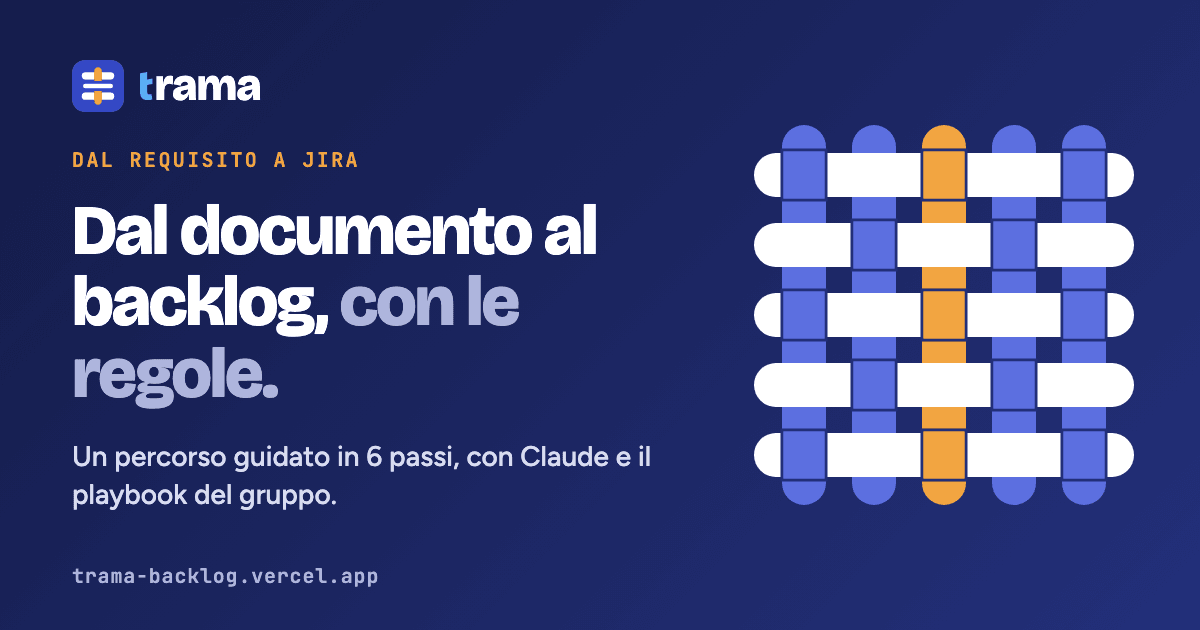
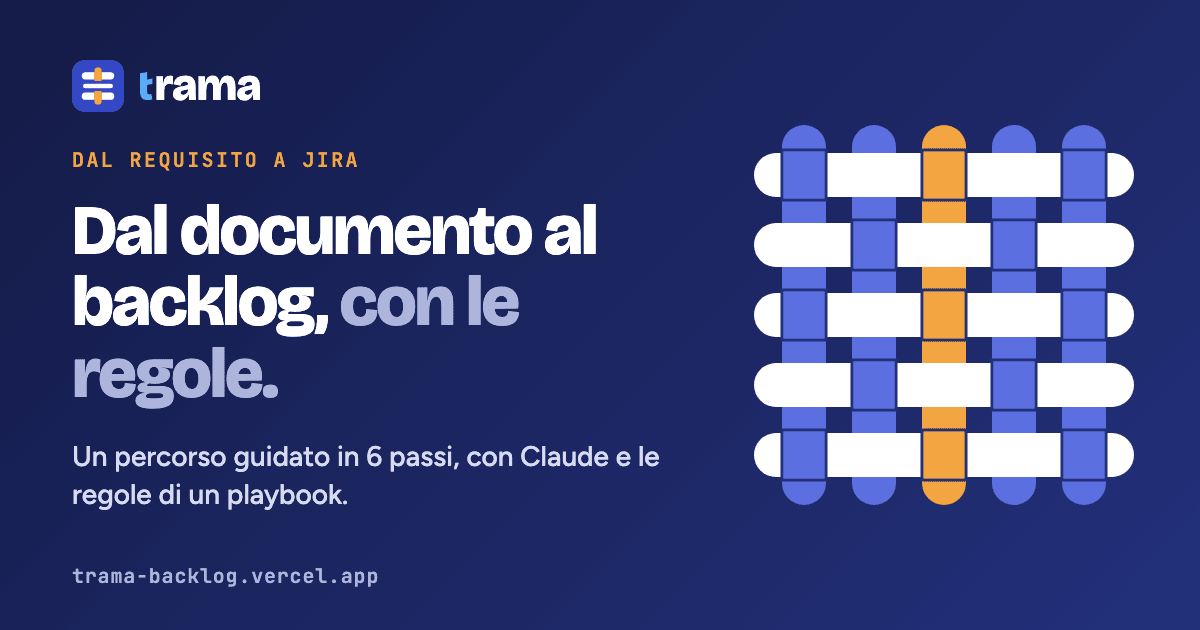
Testi pubblici: tolgo le diciture da uso interno
Trama viene mostrato anche fuori dal gruppo, dal profilo LinkedIn: homepage,
guida all'installazione e immagini di anteprima non dicono più «uso interno»,
«del gruppo» o «per i colleghi». Rigenerati metadati e immagini (ogVersion 3).

diff --git a/public/index.html b/public/index.html
@@ -4,7 +4,7 @@
 <meta charset="utf-8">
 <meta name="viewport" content="width=device-width,initial-scale=1,viewport-fit=cover">
 <title>Trama · Dal documento di requisiti al backlog Jira</title>
-<meta name="description" content="Trama trasforma il documento di requisiti in un backlog Jira strutturato, passo dopo passo, con l'assistente Tessa e le regole del playbook del gruppo.">
+<meta name="description" content="Trama trasforma il documento di requisiti in un backlog Jira strutturato, passo dopo passo, con l'assistente Tessa e le regole di un playbook.">
 <meta name="theme-color" content="#23307A">
 <meta name="apple-mobile-web-app-capable" content="yes">
 <meta name="apple-mobile-web-app-title" content="Trama">
@@ -298,19 +298,19 @@ footer a{color:var(--muted)}
 <meta property="og:locale" content="it_IT">
 <meta property="og:locale:alternate" content="en_GB">
 <meta property="og:title" content="Trama · Dal documento di requisiti al backlog Jira">
-<meta property="og:description" content="Trama trasforma il documento di requisiti in un backlog Jira strutturato, passo dopo passo, con l'assistente Tessa e le regole del playbook del gruppo.">
+<meta property="og:description" content="Trama trasforma il documento di requisiti in un backlog Jira strutturato, passo dopo passo, con l'assistente Tessa e le regole di un playbook.">
 <meta property="og:url" content="https://trama-backlog.vercel.app/">
-<meta property="og:image" content="https://trama-backlog.vercel.app/og/trama-og.png?v=2">
+<meta property="og:image" content="https://trama-backlog.vercel.app/og/trama-og.png?v=3">
 <meta property="og:image:type" content="image/png">
 <meta property="og:image:width" content="1200">
 <meta property="og:image:height" content="630">
 <meta property="og:image:alt" content="Trama: dal documento al backlog, con le regole.">
 <meta name="twitter:card" content="summary_large_image">
 <meta name="twitter:title" content="Trama · Dal documento di requisiti al backlog Jira">
-<meta name="twitter:description" content="Trama trasforma il documento di requisiti in un backlog Jira strutturato, passo dopo passo, con l'assistente Tessa e le regole del playbook del gruppo.">
-<meta name="twitter:image" content="https://trama-backlog.vercel.app/og/trama-og.png?v=2">
+<meta name="twitter:description" content="Trama trasforma il documento di requisiti in un backlog Jira strutturato, passo dopo passo, con l'assistente Tessa e le regole di un playbook.">
+<meta name="twitter:image" content="https://trama-backlog.vercel.app/og/trama-og.png?v=3">
 <meta name="twitter:image:alt" content="Trama: dal documento al backlog, con le regole.">
-<script type="application/ld+json">{"@context":"https://schema.org","@graph":[{"@type":"WebSite","@id":"https://trama-backlog.vercel.app/#site","url":"https://trama-backlog.vercel.app/","name":"Trama","inLanguage":"it"},{"@type":"SoftwareApplication","@id":"https://trama-backlog.vercel.app/#app","name":"Trama","url":"https://trama-backlog.vercel.app/","description":"Trama trasforma il documento di requisiti in un backlog Jira strutturato, passo dopo passo, con l'assistente Tessa e le regole del playbook del gruppo.","applicationCategory":"BusinessApplication","operatingSystem":"Web","inLanguage":"it","image":"https://trama-backlog.vercel.app/og/trama-og.png"}]}</script>
+<script type="application/ld+json">{"@context":"https://schema.org","@graph":[{"@type":"WebSite","@id":"https://trama-backlog.vercel.app/#site","url":"https://trama-backlog.vercel.app/","name":"Trama","inLanguage":"it"},{"@type":"SoftwareApplication","@id":"https://trama-backlog.vercel.app/#app","name":"Trama","url":"https://trama-backlog.vercel.app/","description":"Trama trasforma il documento di requisiti in un backlog Jira strutturato, passo dopo passo, con l'assistente Tessa e le regole di un playbook.","applicationCategory":"BusinessApplication","operatingSystem":"Web","inLanguage":"it","image":"https://trama-backlog.vercel.app/og/trama-og.png"}]}</script>
 <!-- seo:end -->
 </head>
 <body>
@@ -343,7 +343,7 @@ footer a{color:var(--muted)}
 
   <header class="hero">
     <div>
-      <div class="eyebrow">Product Owner + AI · uso interno</div>
+      <div class="eyebrow">Product Owner + AI</div>
       <h1 class="h-display" style="margin-top:16px">Dal documento al backlog, <span>con le regole.</span></h1>
       <p class="lede">Carichi i requisiti. Trama li scompone in Project, Fasi, epiche e storie con i metadati giusti, e li porta in Jira solo dopo la tua conferma.</p>
       <div class="cta">
@@ -516,7 +516,7 @@ footer a{color:var(--muted)}
     <div><p>Accedi con Atlassian, crea il progetto e segui i passi. Il primo backlog può essere in Jira il giorno stesso.</p><div class="cta" style="margin-top:22px"><a class="btn primary" id="ctaBand" href="/api/auth/login">Accedi con Atlassian</a><a class="btn" href="/brand">Linee guida del marchio</a></div></div>
   </div>
 </section>
-<div class="wrap"><footer><a class="brand" href="/" style="font-size:18px"><svg viewBox="0 0 32 32" aria-hidden="true" style="width:22px;height:22px"><rect width="32" height="32" rx="8" fill="#23307A"/><rect x="6" y="7.5" width="20" height="4.5" rx="2.25" fill="#fff"/><rect x="6" y="20" width="20" height="4.5" rx="2.25" fill="#fff"/><rect x="13.75" y="4.5" width="4.5" height="23" rx="2.25" fill="#F2A541"/><rect x="6" y="13.75" width="20" height="4.5" rx="2.25" fill="#fff" stroke="#23307A" stroke-width="1.6"/></svg><span class="wm" aria-hidden="true" data-no-i18n><svg class="wm-t" viewBox="0 0 21 47" aria-hidden="true" focusable="false"><use href="/icons.svg#tx-t" width="21" height="47"/></svg>rama</span><span class="sr-only">Trama</span></a><span>Strumento interno del gruppo · Funziona con Jira Cloud e Claude Code</span><span><a href="/installazione">Installazione</a> · <a href="/architettura">Architettura</a> · <a href="/privacy">Privacy</a> · <a href="/brand">Marchio e linee guida</a></span></footer></div>
+<div class="wrap"><footer><a class="brand" href="/" style="font-size:18px"><svg viewBox="0 0 32 32" aria-hidden="true" style="width:22px;height:22px"><rect width="32" height="32" rx="8" fill="#23307A"/><rect x="6" y="7.5" width="20" height="4.5" rx="2.25" fill="#fff"/><rect x="6" y="20" width="20" height="4.5" rx="2.25" fill="#fff"/><rect x="13.75" y="4.5" width="4.5" height="23" rx="2.25" fill="#F2A541"/><rect x="6" y="13.75" width="20" height="4.5" rx="2.25" fill="#fff" stroke="#23307A" stroke-width="1.6"/></svg><span class="wm" aria-hidden="true" data-no-i18n><svg class="wm-t" viewBox="0 0 21 47" aria-hidden="true" focusable="false"><use href="/icons.svg#tx-t" width="21" height="47"/></svg>rama</span><span class="sr-only">Trama</span></a><span>Funziona con Jira Cloud e Claude Code</span><span><a href="/installazione">Installazione</a> · <a href="/architettura">Architettura</a> · <a href="/privacy">Privacy</a> · <a href="/brand">Marchio e linee guida</a></span></footer></div>
 
 <script src="/home.js"></script>
 </body>

diff --git a/public/installazione.html b/public/installazione.html
@@ -3,7 +3,7 @@
 <head>
 <meta charset="utf-8">
 <meta name="viewport" content="width=device-width,initial-scale=1,viewport-fit=cover">
-<title>Trama · Installazione per i colleghi</title>
+<title>Trama · Installazione</title>
 <meta name="description" content="Come collegare Claude Code a Trama sul tuo computer in circa 15 minuti: accesso, Node.js, Claude Code, ponte e controlli.">
 <meta name="theme-color" content="#23307A">
 <link rel="preload" href="/fonts/figtree-latin.woff2" as="font" type="font/woff2" crossorigin>
@@ -50,26 +50,26 @@ tr:last-child td{border-bottom:0}
 <meta property="og:type" content="website">
 <meta property="og:site_name" content="Trama">
 <meta property="og:locale" content="it_IT">
-<meta property="og:title" content="Trama · Installazione per i colleghi">
+<meta property="og:title" content="Trama · Installazione">
 <meta property="og:description" content="Come collegare Claude Code a Trama sul tuo computer in circa 15 minuti: accesso, Node.js, Claude Code, ponte e controlli.">
 <meta property="og:url" content="https://trama-backlog.vercel.app/installazione">
-<meta property="og:image" content="https://trama-backlog.vercel.app/og/trama-og-install.png?v=2">
+<meta property="og:image" content="https://trama-backlog.vercel.app/og/trama-og-install.png?v=3">
 <meta property="og:image:type" content="image/png">
 <meta property="og:image:width" content="1200">
 <meta property="og:image:height" content="630">
-<meta property="og:image:alt" content="Collega Claude a Trama sul tuo computer: la guida per i colleghi.">
+<meta property="og:image:alt" content="Collega Claude a Trama sul tuo computer: la guida all'installazione.">
 <meta name="twitter:card" content="summary_large_image">
-<meta name="twitter:title" content="Trama · Installazione per i colleghi">
+<meta name="twitter:title" content="Trama · Installazione">
 <meta name="twitter:description" content="Come collegare Claude Code a Trama sul tuo computer in circa 15 minuti: accesso, Node.js, Claude Code, ponte e controlli.">
-<meta name="twitter:image" content="https://trama-backlog.vercel.app/og/trama-og-install.png?v=2">
-<meta name="twitter:image:alt" content="Collega Claude a Trama sul tuo computer: la guida per i colleghi.">
+<meta name="twitter:image" content="https://trama-backlog.vercel.app/og/trama-og-install.png?v=3">
+<meta name="twitter:image:alt" content="Collega Claude a Trama sul tuo computer: la guida all'installazione.">
 <!-- seo:end -->
 </head>
 <body>
 <div class="wrap">
   <div class="top"><a class="brand" href="/"><svg viewBox="0 0 32 32" aria-hidden="true"><rect width="32" height="32" rx="8" fill="#23307A"/><rect x="6" y="7.5" width="20" height="4.5" rx="2.25" fill="#fff"/><rect x="6" y="20" width="20" height="4.5" rx="2.25" fill="#fff"/><rect x="13.75" y="4.5" width="4.5" height="23" rx="2.25" fill="#F2A541"/><rect x="6" y="13.75" width="20" height="4.5" rx="2.25" fill="#fff" stroke="#23307A" stroke-width="1.6"/></svg><span class="wm" aria-hidden="true"><svg class="wm-t" viewBox="0 0 21 47" aria-hidden="true" focusable="false"><use href="/icons.svg#tx-t" width="21" height="47"/></svg>rama</span><span class="sr-only">Trama</span></a><a class="back" href="/studio">Apri Trama →</a></div>
   <main>
-    <div class="eyebrow">Guida per i colleghi · 15 minuti</div>
+    <div class="eyebrow">Guida all'installazione · 15 minuti</div>
     <h1>Collega Claude a Trama sul tuo computer</h1>
     <p class="muted">Trama funziona nel browser. Le funzioni che usano Claude (estrarre i requisiti, proporre il kit, scomporre i ticket) passano da un piccolo programma, il <b>ponte</b>, che gira sul tuo computer e usa il tuo account Claude. Senza ponte puoi comunque usare tutto il resto.</p>
 

diff --git a/public/i18n-home-en.js b/public/i18n-home-en.js
@@ -44,7 +44,7 @@ exact: {
 "Domande": "FAQ",
 "Apri Trama": "Open Trama",
 "Lingua": "Language",
-"Product Owner + AI · uso interno": "Product Owner + AI · internal use",
+"Product Owner + AI": "Product Owner + AI",
 "Dal documento al backlog,": "From document to backlog,",
 "con le regole.": "by the rules.",
 "Carichi i requisiti. Trama li scompone in Project, Fasi, epiche e storie con i metadati giusti, e li porta in Jira solo dopo la tua conferma.": "Upload the requirements. Trama breaks them down into Project, Phases, epics and stories with the right metadata, and takes them to Jira only after you confirm.",
@@ -293,7 +293,7 @@ exact: {
 "Marchio e linee guida": "Brand and guidelines",
 "Linee guida del marchio": "Brand guidelines",
 "Privacy": "Privacy",
-"Strumento interno del gruppo · Funziona con Jira Cloud e Claude Code": "Internal group tool · Works with Jira Cloud and Claude Code",
+"Funziona con Jira Cloud e Claude Code": "Works with Jira Cloud and Claude Code",
 "Trama": "Trama",
 // ---- migliorie: Tessa, QA, vantaggi per ruolo, demo nuove, meta
 "## Cosa verificare": "## What to verify",
@@ -351,7 +351,7 @@ exact: {
 "Trama li scompone in ticket con le regole.": "Trama breaks them down into tickets by the rules.",
 "Trama nasce per il Product Owner, ma il vantaggio arriva a tutto il team: chi sviluppa riceve ticket chiari, chi collauda trova la scheda pronta, chi coordina progetti tutti uguali.": "Trama is built for the Product Owner, but the benefit reaches the whole team: developers get clear tickets, testers find the sheet ready, coordinators find consistent projects.",
 "Trama prepara la Scheda QA: i criteri diventano una checklist.": "Trama prepares the QA sheet: the criteria become a checklist.",
-"Trama trasforma il documento di requisiti in un backlog Jira strutturato, passo dopo passo, con l'assistente Tessa e le regole del playbook del gruppo.": "Trama turns the requirements document into a structured Jira backlog, step by step, with the Tessa assistant and the group's playbook rules.",
+"Trama trasforma il documento di requisiti in un backlog Jira strutturato, passo dopo passo, con l'assistente Tessa e le regole di un playbook.": "Trama turns the requirements document into a structured Jira backlog, step by step, with the Tessa assistant and the rules of a playbook.",
 "Trama: dal documento al backlog, con le regole.": "Trama: from document to backlog, by the rules.",
 "Tutti": "All",
 "Tutto in Jira, collegato e verificato.": "Everything in Jira, linked and verified.",

diff --git a/public/brand.html b/public/brand.html
@@ -80,7 +80,7 @@ tr:last-child td{border-bottom:0}
 <meta property="og:title" content="Trama · Linee guida del marchio">
 <meta property="og:description" content="Nome, tono di voce, logo, colori, tipografia, icone, componenti e regole di scrittura di Trama.">
 <meta property="og:url" content="https://trama-backlog.vercel.app/brand">
-<meta property="og:image" content="https://trama-backlog.vercel.app/og/trama-og-brand.png?v=2">
+<meta property="og:image" content="https://trama-backlog.vercel.app/og/trama-og-brand.png?v=3">
 <meta property="og:image:type" content="image/png">
 <meta property="og:image:width" content="1200">
 <meta property="og:image:height" content="630">
@@ -88,7 +88,7 @@ tr:last-child td{border-bottom:0}
 <meta name="twitter:card" content="summary_large_image">
 <meta name="twitter:title" content="Trama · Linee guida del marchio">
 <meta name="twitter:description" content="Nome, tono di voce, logo, colori, tipografia, icone, componenti e regole di scrittura di Trama.">
-<meta name="twitter:image" content="https://trama-backlog.vercel.app/og/trama-og-brand.png?v=2">
+<meta name="twitter:image" content="https://trama-backlog.vercel.app/og/trama-og-brand.png?v=3">
 <meta name="twitter:image:alt" content="Il marchio Trama: nome, logo, colori e tipografia.">
 <!-- seo:end -->
 </head>

diff --git a/public/privacy.html b/public/privacy.html
@@ -41,7 +41,7 @@ tr:last-child td{border-bottom:0}
 <meta property="og:title" content="Trama · Informativa privacy">
 <meta property="og:description" content="Quali dati personali tratta Trama, perché, dove e come chiederne la cancellazione.">
 <meta property="og:url" content="https://trama-backlog.vercel.app/privacy">
-<meta property="og:image" content="https://trama-backlog.vercel.app/og/trama-og-privacy.png?v=2">
+<meta property="og:image" content="https://trama-backlog.vercel.app/og/trama-og-privacy.png?v=3">
 <meta property="og:image:type" content="image/png">
 <meta property="og:image:width" content="1200">
 <meta property="og:image:height" content="630">
@@ -49,7 +49,7 @@ tr:last-child td{border-bottom:0}
 <meta name="twitter:card" content="summary_large_image">
 <meta name="twitter:title" content="Trama · Informativa privacy">
 <meta name="twitter:description" content="Quali dati personali tratta Trama, perché, dove e come chiederne la cancellazione.">
-<meta name="twitter:image" content="https://trama-backlog.vercel.app/og/trama-og-privacy.png?v=2">
+<meta name="twitter:image" content="https://trama-backlog.vercel.app/og/trama-og-privacy.png?v=3">
 <meta name="twitter:image:alt" content="Come Trama tratta i dati personali.">
 <!-- seo:end -->
 </head>

diff --git a/scripts/seo/og-source.html b/scripts/seo/og-source.html
@@ -24,9 +24,9 @@
 <div class="url">trama-backlog.vercel.app</div>
 <script>
 const V={
-  home:{e:"Dal requisito a Jira",t:'Dal documento al backlog, <span>con le regole.</span>',s:"Un percorso guidato in 6 passi, con Claude e il playbook del gruppo."},
+  home:{e:"Dal requisito a Jira",t:'Dal documento al backlog, <span>con le regole.</span>',s:"Un percorso guidato in 6 passi, con Claude e le regole di un playbook."},
   brand:{e:"Linee guida del marchio",t:'Il marchio <span>Trama.</span>',s:"Nome, logo, colori, tipografia e tono di voce."},
-  install:{e:"Guida per i colleghi",t:'Collega Claude <span>a Trama.</span>',s:"Ponte Claude Code sul tuo computer, in circa 15 minuti."},
+  install:{e:"Guida all'installazione",t:'Collega Claude <span>a Trama.</span>',s:"Ponte Claude Code sul tuo computer, in circa 15 minuti."},
   privacy:{e:"Informativa privacy",t:'Come Trama <span>tratta i tuoi dati.</span>',s:"Quali dati, dove sono conservati e come cancellarli."}
 }[new URLSearchParams(location.search).get("v")||"home"];
 document.getElementById("eyebrow").textContent=V.e;document.getElementById("title").innerHTML=V.t;document.getElementById("sub").textContent=V.s;
